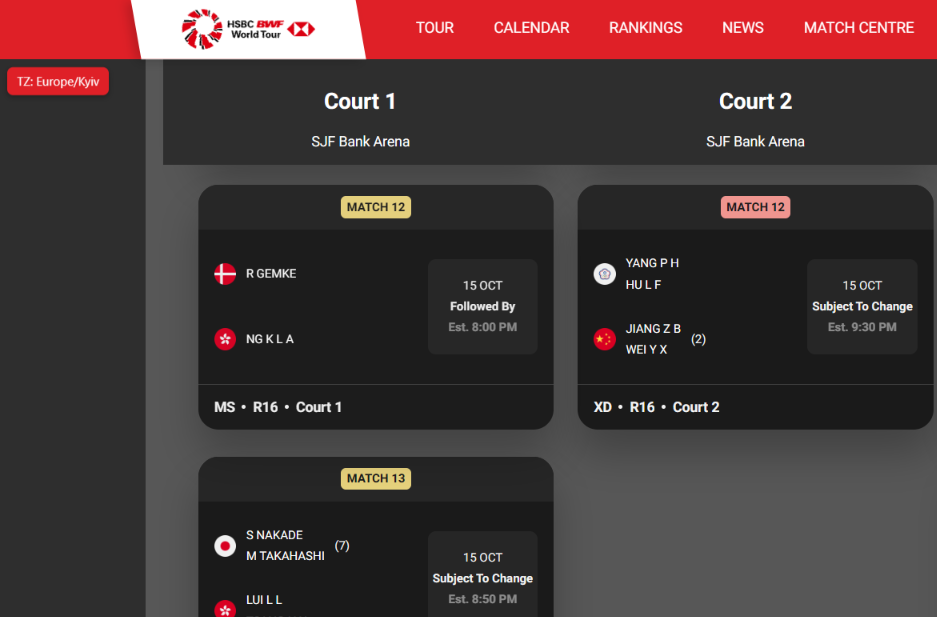
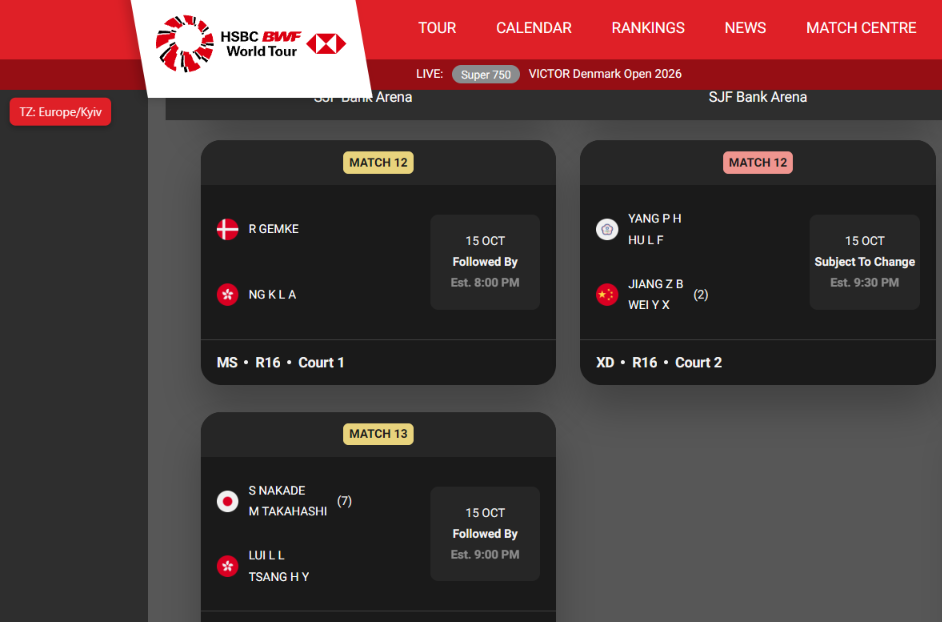
Harden day marks, badge states and header tracking; refresh screenshots
- Reset day-shift data on each schedule response and mark only times inside match cards
- Flag partial conversion (some matches without UTC time) on the badge
- Start in a "pending" badge state and switch to n/a if no schedule is intercepted
- Intercept fetch in addition to XMLHttpRequest
- Replace the per-frame header tracking loop with scroll/resize/ResizeObserver updates
- Add @inject-into page for Violentmonkey
- Re-take before/after screenshots with matching header and size
- Bump version to 1.2.0

diff --git a/bwf-localtime.user.js b/bwf-localtime.user.js
@@ -1,7 +1,7 @@
 // ==UserScript==
 // @name         BWF World Tour — local match times
 // @namespace    https://github.com/dfilippovsky/bwf-localtime
-// @version      1.1.0
+// @version      1.2.0
 // @description  Shows BWF World Tour match start times in your own timezone instead of the stadium's.
 // @author       Dan Filippovsky
 // @license      MIT
@@ -11,6 +11,7 @@
 // @updateURL    https://raw.githubusercontent.com/dfilippovsky/bwf-localtime/master/bwf-localtime.user.js
 // @match        https://bwfworldtour.bwfbadminton.com/*
 // @run-at       document-start
+// @inject-into  page
 // @grant        none
 // ==/UserScript==
 
@@ -20,6 +21,8 @@
     // The schedule widget fetches matches from this endpoint (axios -> XMLHttpRequest).
     const API_RE = /extranet-lv\.bwfbadminton\.com\/api\/tournaments\/day-matches(\?|$)/;
     const STORAGE_KEY = 'bwfLocalTime.mode'; // 'local' | 'stadium'
+    // If a schedule page hasn't delivered a day-matches response by then, interception is broken.
+    const PENDING_TIMEOUT_MS = 15000;
 
     function getMode() {
         try { return localStorage.getItem(STORAGE_KEY) || 'local'; } catch (e) { return 'local'; }
@@ -31,8 +34,9 @@
     const pad = n => String(n).padStart(2, '0');
     const DATE_TIME_RE = /^(\d{4})-(\d{2})-(\d{2})[ T](\d{2}):(\d{2})(?::(\d{2}))?/;
 
-    // 'ok' — times converted; 'na' — the API answered in an unexpected format, times left as is.
-    let status = 'ok';
+    // 'pending' — no schedule response seen yet; 'ok' — all times converted;
+    // 'partial' — some matches had no usable UTC time; 'na' — unexpected format, times left as is.
+    const state = { status: 'pending', matches: 0, converted: 0 };
 
     // "2026-10-15 07:00:00" (UTC) -> "2026-10-15 09:00:00" in the browser's timezone.
     function utcToLocalString(utc) {
@@ -50,8 +54,8 @@
         return Math.round((Date.UTC(+b[1], b[2] - 1, +b[3]) - Date.UTC(+a[1], a[2] - 1, +a[3])) / 864e5);
     }
 
-    // Local "HH:MM" -> { shift, date } for matches that land on another day in the user's zone.
-    // Filled while localizing, used to put "+1"/"−1" marks next to the rendered times.
+    // Local "HH:MM" -> { shift, date } for the latest schedule response.
+    // Used to put "+1"/"−1" marks next to rendered times that land on another day in the user's zone.
     const shiftedTimes = new Map();
 
     function rememberShift(stadium, local) {
@@ -69,9 +73,9 @@
         if (Array.isArray(node)) {
             node.forEach(v => localize(v, stats));
         } else if (node && typeof node === 'object') {
-            if ('matchTime' in node) stats.matches++;
-            if (typeof node.matchTimeUtc === 'string' && typeof node.matchTime === 'string') {
-                const local = utcToLocalString(node.matchTimeUtc);
+            if (typeof node.matchTime === 'string' && node.matchTime) {
+                stats.matches++;
+                const local = typeof node.matchTimeUtc === 'string' && utcToLocalString(node.matchTimeUtc);
                 if (local) {
                     node.matchTimeStadium = node.matchTime;
                     node.matchTime = local;
@@ -84,9 +88,33 @@
         return stats;
     }
 
-    function setStatus(s) {
-        status = s;
+    function setStatus(status, stats) {
+        state.status = status;
+        state.matches = stats ? stats.matches : 0;
+        state.converted = stats ? stats.converted : 0;
         updateBadge();
+    }
+
+    // Raw day-matches JSON -> localized JSON. Never breaks the page: on any surprise the
+    // original text is returned untouched.
+    function localizeText(raw) {
+        if (getMode() !== 'local' || !raw) return raw;
+        try {
+            const data = JSON.parse(raw);
+            shiftedTimes.clear(); // a new day was loaded — forget the previous one
+            const stats = localize(data);
+            if (stats.matches > 0 && stats.converted === 0) {
+                shiftedTimes.clear();
+                setStatus('na', stats); // matches are there, but without a usable matchTimeUtc
+                return raw;
+            }
+            setStatus(stats.converted < stats.matches ? 'partial' : 'ok', stats);
+            scheduleMarkDays();
+            return JSON.stringify(data);
+        } catch (e) {
+            setStatus('na');
+            return raw;
+        }
     }
 
     // Patch XMLHttpRequest so the page's Vue component receives already-localized times.
@@ -99,27 +127,12 @@
     const textDesc = Object.getOwnPropertyDescriptor(XMLHttpRequest.prototype, 'responseText');
     const respDesc = Object.getOwnPropertyDescriptor(XMLHttpRequest.prototype, 'response');
 
-    // Never break the page: on any surprise return the original response untouched.
     function transformedText(xhr) {
         const raw = textDesc.get.call(xhr);
-        if (!xhr.__bwfLocalize || getMode() !== 'local' || xhr.readyState !== 4 || !raw) return raw;
+        if (!xhr.__bwfLocalize || xhr.readyState !== 4 || !raw) return raw;
         if (xhr.__bwfCache && xhr.__bwfCache.raw === raw) return xhr.__bwfCache.out;
-        let out = raw;
-        try {
-            const data = JSON.parse(raw);
-            const stats = localize(data);
-            if (stats.matches > 0 && stats.converted === 0) {
-                setStatus('na'); // matches are there, but without a usable matchTimeUtc
-            } else {
-                out = JSON.stringify(data);
-                if (stats.converted) setStatus('ok');
-            }
-        } catch (e) {
-            out = raw;
-            setStatus('na');
-        }
+        const out = localizeText(raw);
         xhr.__bwfCache = { raw, out };
-        scheduleMarkDays();
         return out;
     }
 
@@ -136,6 +149,23 @@
             return respDesc.get.call(this);
         },
     });
+
+    // The site uses XHR today; cover fetch too in case it switches.
+    const origFetch = window.fetch;
+    if (typeof origFetch === 'function') {
+        window.fetch = function (input) {
+            const url = typeof input === 'string' ? input : input && input.url;
+            const p = origFetch.apply(this, arguments);
+            if (!API_RE.test(String(url))) return p;
+            return p.then(res => res.clone().text().then(raw => {
+                const out = localizeText(raw);
+                if (out === raw) return res;
+                const headers = new Headers(res.headers);
+                headers.delete('content-length');
+                return new Response(out, { status: res.status, statusText: res.statusText, headers });
+            }, () => res));
+        };
+    }
 
     // The site already has "Stadium Time / Your Time" buttons that do nothing. Make them work.
     document.addEventListener('click', e => {
@@ -158,6 +188,8 @@
         'Asia/Rangoon': 'Asia/Yangon',
     };
 
+    let placeBadge = () => {};
+
     // Small badge so it's obvious which time is shown.
     function addBadge() {
         if (document.getElementById('bwf-localtime-badge')) return;
@@ -172,7 +204,7 @@
         });
         document.body.appendChild(b);
         updateBadge();
-        followHeader(b);
+        placeBadge = followHeader(b);
     }
 
     function updateBadge() {
@@ -180,24 +212,46 @@
         if (!b) return;
         const rawTz = Intl.DateTimeFormat().resolvedOptions().timeZone;
         const tz = TZ_ALIASES[rawTz] || rawTz;
-        let text = `TZ: ${tz}`, bg = '#df2027', title = 'Click to switch between your time and stadium time';
+        const hint = 'Click to switch between your time and stadium time.';
+        let text = `TZ: ${tz}`, bg = '#df2027', opacity = '1', title = hint;
         if (getMode() !== 'local') {
             text = 'TZ: Stadium';
             bg = '#6e7781';
-        } else if (status === 'na') {
+        } else if (state.status === 'pending') {
+            opacity = '.6';
+            title = 'No match schedule has been loaded on this page yet.\n' + hint;
+        } else if (state.status === 'partial') {
+            text = `TZ: ${tz} ⚠`;
+            bg = '#9a6700';
+            title = `${state.matches - state.converted} of ${state.matches} matches have no UTC time ` +
+                'and still show stadium time.\n' + hint;
+        } else if (state.status === 'na') {
             text = 'TZ: n/a';
             bg = '#9a6700';
-            title = 'The BWF API returned data in an unexpected format, so the original stadium times ' +
-                'are shown. Click to switch to stadium mode.';
+            title = 'The match schedule could not be converted (the BWF API answered in an unexpected ' +
+                'format, or its request was not intercepted), so stadium times are shown.\n' + hint;
         }
         b.textContent = text;
         b.title = title;
         b.style.background = bg;
+        b.style.opacity = opacity;
     }
 
-    // Mark rendered times whose local day differs from the stadium day: "02:00 +1".
+    // On a schedule page, staying 'pending' means the request was never intercepted
+    // (e.g. the site switched transport, or the script runs in an isolated context).
+    function watchPending() {
+        setTimeout(() => {
+            if (state.status === 'pending' && getMode() === 'local' && /\/results\//.test(location.pathname)) {
+                setStatus('na');
+            }
+        }, PENDING_TIMEOUT_MS);
+    }
+
+    // Mark rendered times whose local day differs from the stadium day: "Est. 2:00 AM +1".
     // The widget's markup is not ours, so look for text nodes that are exactly a shifted time.
     const MARK_CLASS = 'bwf-localtime-day';
+    // No trailing \b: textContent glues "15 OCT" to the next line ("15 OCTFollowed By").
+    const CARD_DATE_RE = /\b\d{1,2}\s+(?:jan|feb|mar|apr|may|jun|jul|aug|sep|oct|nov|dec)/i;
 
     // "9:05", "09:05", "Est. 9:05 PM" -> "09:05" / "21:05"; anything else -> null.
     function timeKey(text) {
@@ -206,6 +260,18 @@
         let h = +m[1];
         if (m[3]) h = (h % 12) + (/p/i.test(m[3]) ? 12 : 0);
         return `${pad(h)}:${m[2]}`;
+    }
+
+    // Only times inside a match card's time box ("15 OCT / Followed By / Est. 8:00 PM") count,
+    // so unrelated "02:00" strings elsewhere on the page are left alone.
+    function inMatchCard(node) {
+        let el = node.parentElement;
+        for (let i = 0; el && i < 4; i++, el = el.parentElement) {
+            const t = el.textContent;
+            if (t.length > 300) return false;
+            if (CARD_DATE_RE.test(t)) return true;
+        }
+        return false;
     }
 
     function markDays() {
@@ -220,7 +286,7 @@
             if (!info || !info.shift) continue;
             const next = n.nextSibling;
             if (next && next.classList && next.classList.contains(MARK_CLASS)) continue;
-            hits.push([n, info]);
+            if (inMatchCard(n)) hits.push([n, info]);
         }
         hits.forEach(([n, info]) => {
             const s = document.createElement('sup');
@@ -238,11 +304,14 @@
         markTimer = setTimeout(markDays, 50);
     }
 
-    // Vue re-renders the list (tab switches, live updates), so re-apply marks after DOM changes.
-    function observeSchedule() {
+    // Vue re-renders the list (tab switches, live updates) and may swap the header,
+    // so re-apply marks and re-place the badge after DOM changes.
+    function observeDom() {
         const isMark = node => node.classList && node.classList.contains(MARK_CLASS);
         new MutationObserver(muts => {
-            if (muts.some(m => m.type !== 'childList' || ![...m.addedNodes].every(isMark))) scheduleMarkDays();
+            if (muts.every(m => m.type === 'childList' && [...m.addedNodes].every(isMark))) return;
+            scheduleMarkDays();
+            placeBadge(true);
         }).observe(document.body, { childList: true, subtree: true, characterData: true });
     }
 
@@ -257,23 +326,53 @@
         return best;
     }
 
-    // Keep the badge just below the header every frame, so it moves together with the header
-    // while it shrinks/grows on scroll; once the header scrolls away, stick to the top.
+    // Keep the badge just below the header, which shrinks/grows on scroll; once the header scrolls
+    // away, stick to the top. Only recomputed on scroll, resize, header resize and DOM changes —
+    // no per-frame loop. Returns a function that schedules a re-placement.
     function followHeader(b) {
-        let header = null, lastY = null, frame = 0;
-        (function tick() {
-            // Vue renders the header late and may swap it, so re-detect it now and then.
-            if (!header || !header.isConnected || frame++ % 60 === 0) header = findHeader();
+        let header = null, lastY = null, queued = false, redetect = true, settleTimer = 0;
+        const ro = typeof ResizeObserver === 'function' ? new ResizeObserver(() => schedule()) : null;
+
+        function place() {
+            queued = false;
+            if (redetect || !header || !header.isConnected) {
+                redetect = false;
+                const h = findHeader();
+                if (h !== header) {
+                    if (ro) { ro.disconnect(); if (h) ro.observe(h); }
+                    header = h;
+                }
+            }
             const bottom = header ? header.getBoundingClientRect().bottom : 72;
             const y = Math.round(Math.max(8, bottom + 8));
             if (y !== lastY) { b.style.transform = `translateY(${y}px)`; lastY = y; }
-            requestAnimationFrame(tick);
-        })();
+        }
+
+        function schedule(findAgain) {
+            if (findAgain) redetect = true;
+            if (queued) return;
+            queued = true;
+            requestAnimationFrame(place);
+        }
+
+        function onScroll() {
+            schedule();
+            // The header may animate after scrolling stops (CSS transition) — settle once more.
+            clearTimeout(settleTimer);
+            settleTimer = setTimeout(() => schedule(), 350);
+        }
+
+        window.addEventListener('scroll', onScroll, { passive: true });
+        window.addEventListener('resize', () => schedule(true), { passive: true });
+        schedule(true);
+        return schedule;
     }
+
     function init() {
         addBadge();
-        observeSchedule();
+        observeDom();
         scheduleMarkDays();
+        watchPending();
     }
     if (document.readyState === 'loading') {
         document.addEventListener('DOMContentLoaded', init);

diff --git a/README.md b/README.md
@@ -29,6 +29,10 @@ The script declares `@updateURL`/`@downloadURL`, so the manager picks up new ver
 > Chrome/Edge: Tampermonkey requires *Allow User Scripts* (or Developer mode) to be enabled
 > in the extension settings.
 
+> Violentmonkey: the script declares `@inject-into page`, because it must patch the page's own
+> `XMLHttpRequest`/`fetch`. If the badge stays `TZ: n/a` on a schedule page, check that the
+> script's injection mode isn't overridden to *content* in Violentmonkey's settings.
+
 ## Usage
 
 - A badge in the top-left corner (just below the red site header) shows which time is displayed:
@@ -39,8 +43,14 @@ The script declares `@updateURL`/`@downloadURL`, so the manager picks up new ver
 - The site's own **Stadium Time / Your Time** buttons (which do nothing on the original site)
   also switch the mode.
 - The choice is stored in `localStorage` (`bwfLocalTime.mode`).
-- `TZ: n/a` means the BWF API answered in an unexpected format (e.g. no `matchTimeUtc`). The script
-  then leaves the response untouched, so the page shows the original stadium times and keeps working.
+- Badge states:
+  - `TZ: Europe/Kyiv` (red) — times are converted.
+  - Dimmed badge — no schedule has been loaded on this page yet (normal on non-schedule pages).
+  - `TZ: Europe/Kyiv ⚠` (amber) — some matches had no UTC time and still show stadium time;
+    hover the badge to see how many.
+  - `TZ: n/a` (amber) — the schedule couldn't be converted: the BWF API answered in an unexpected
+    format, or on a `results/<date>` page no schedule request was intercepted within 15 s. The script
+    then leaves the response untouched, so the page shows the original stadium times and keeps working.
 
 ## Limitations
 
